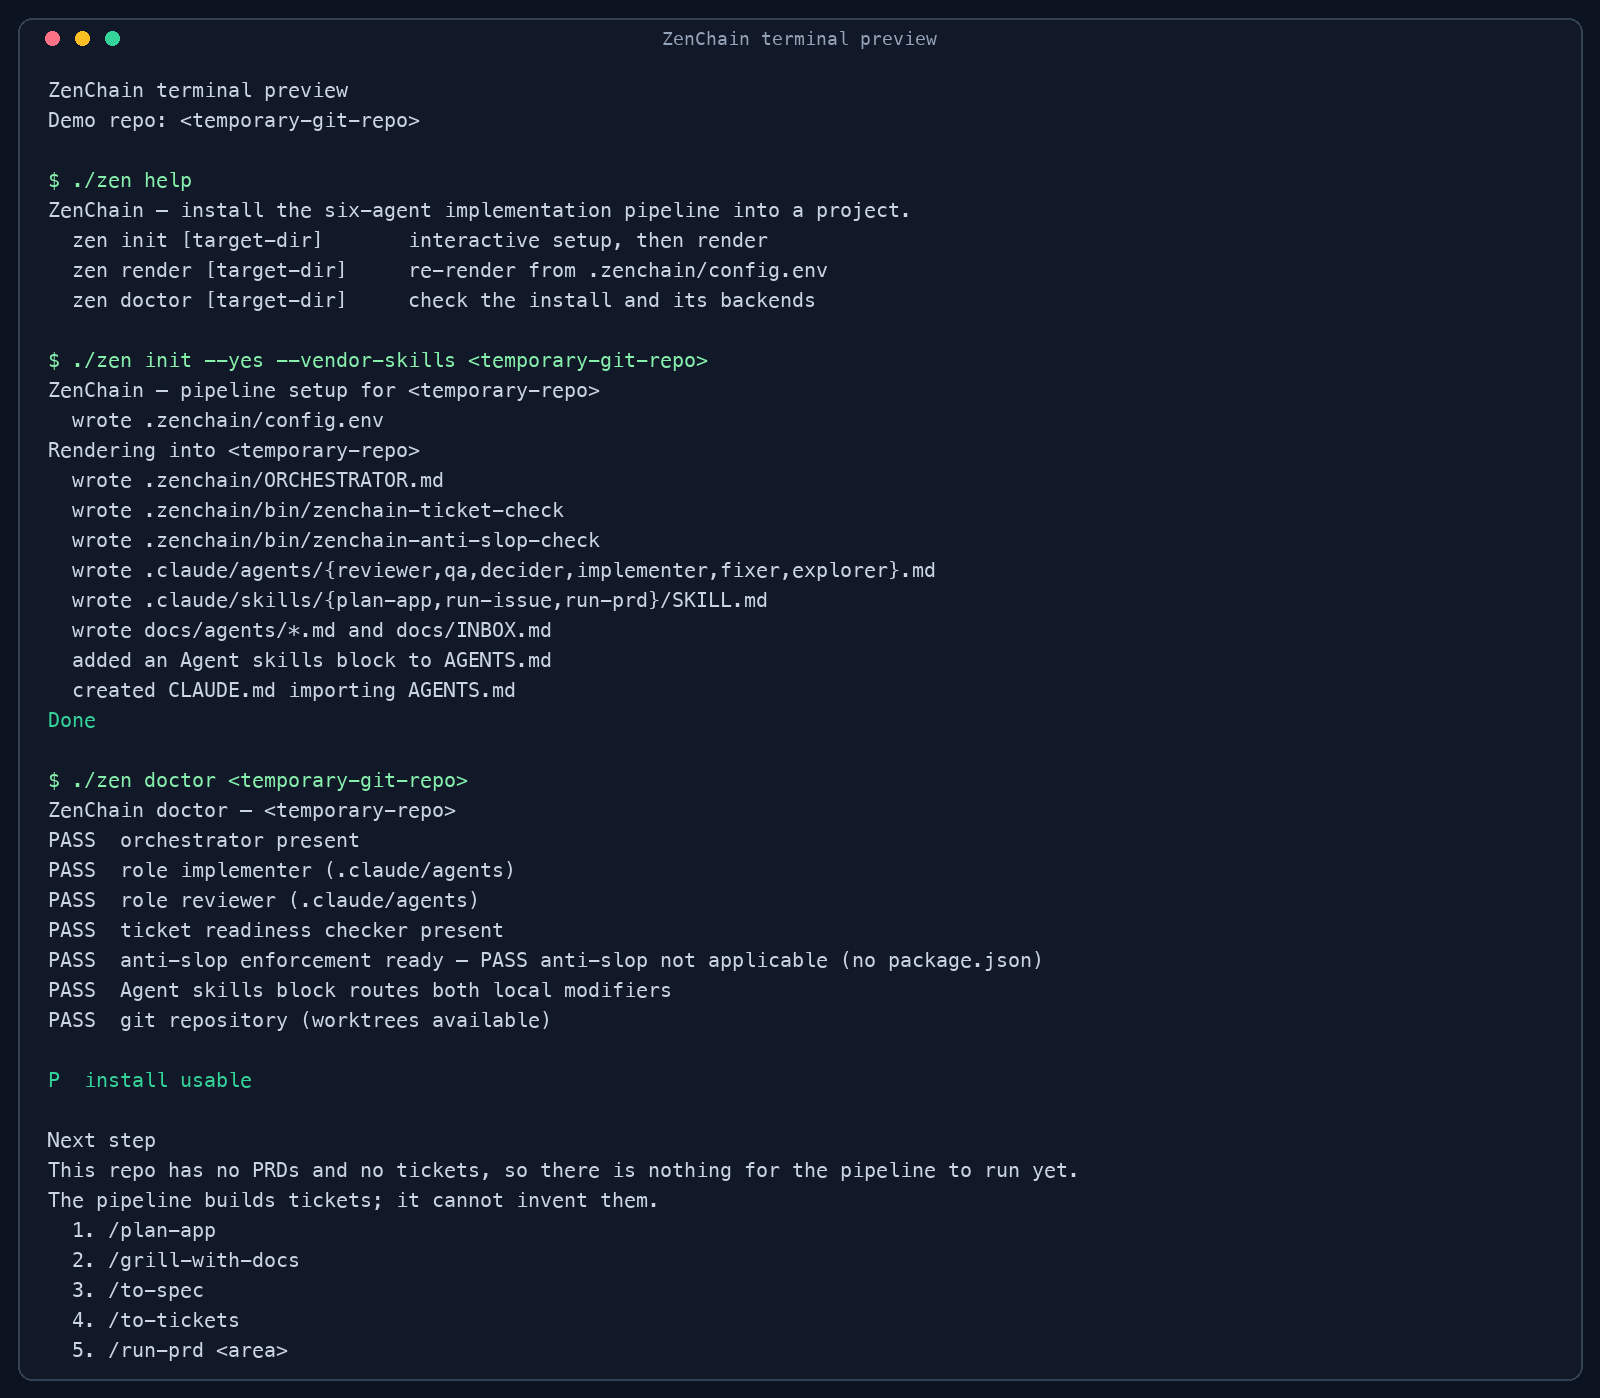
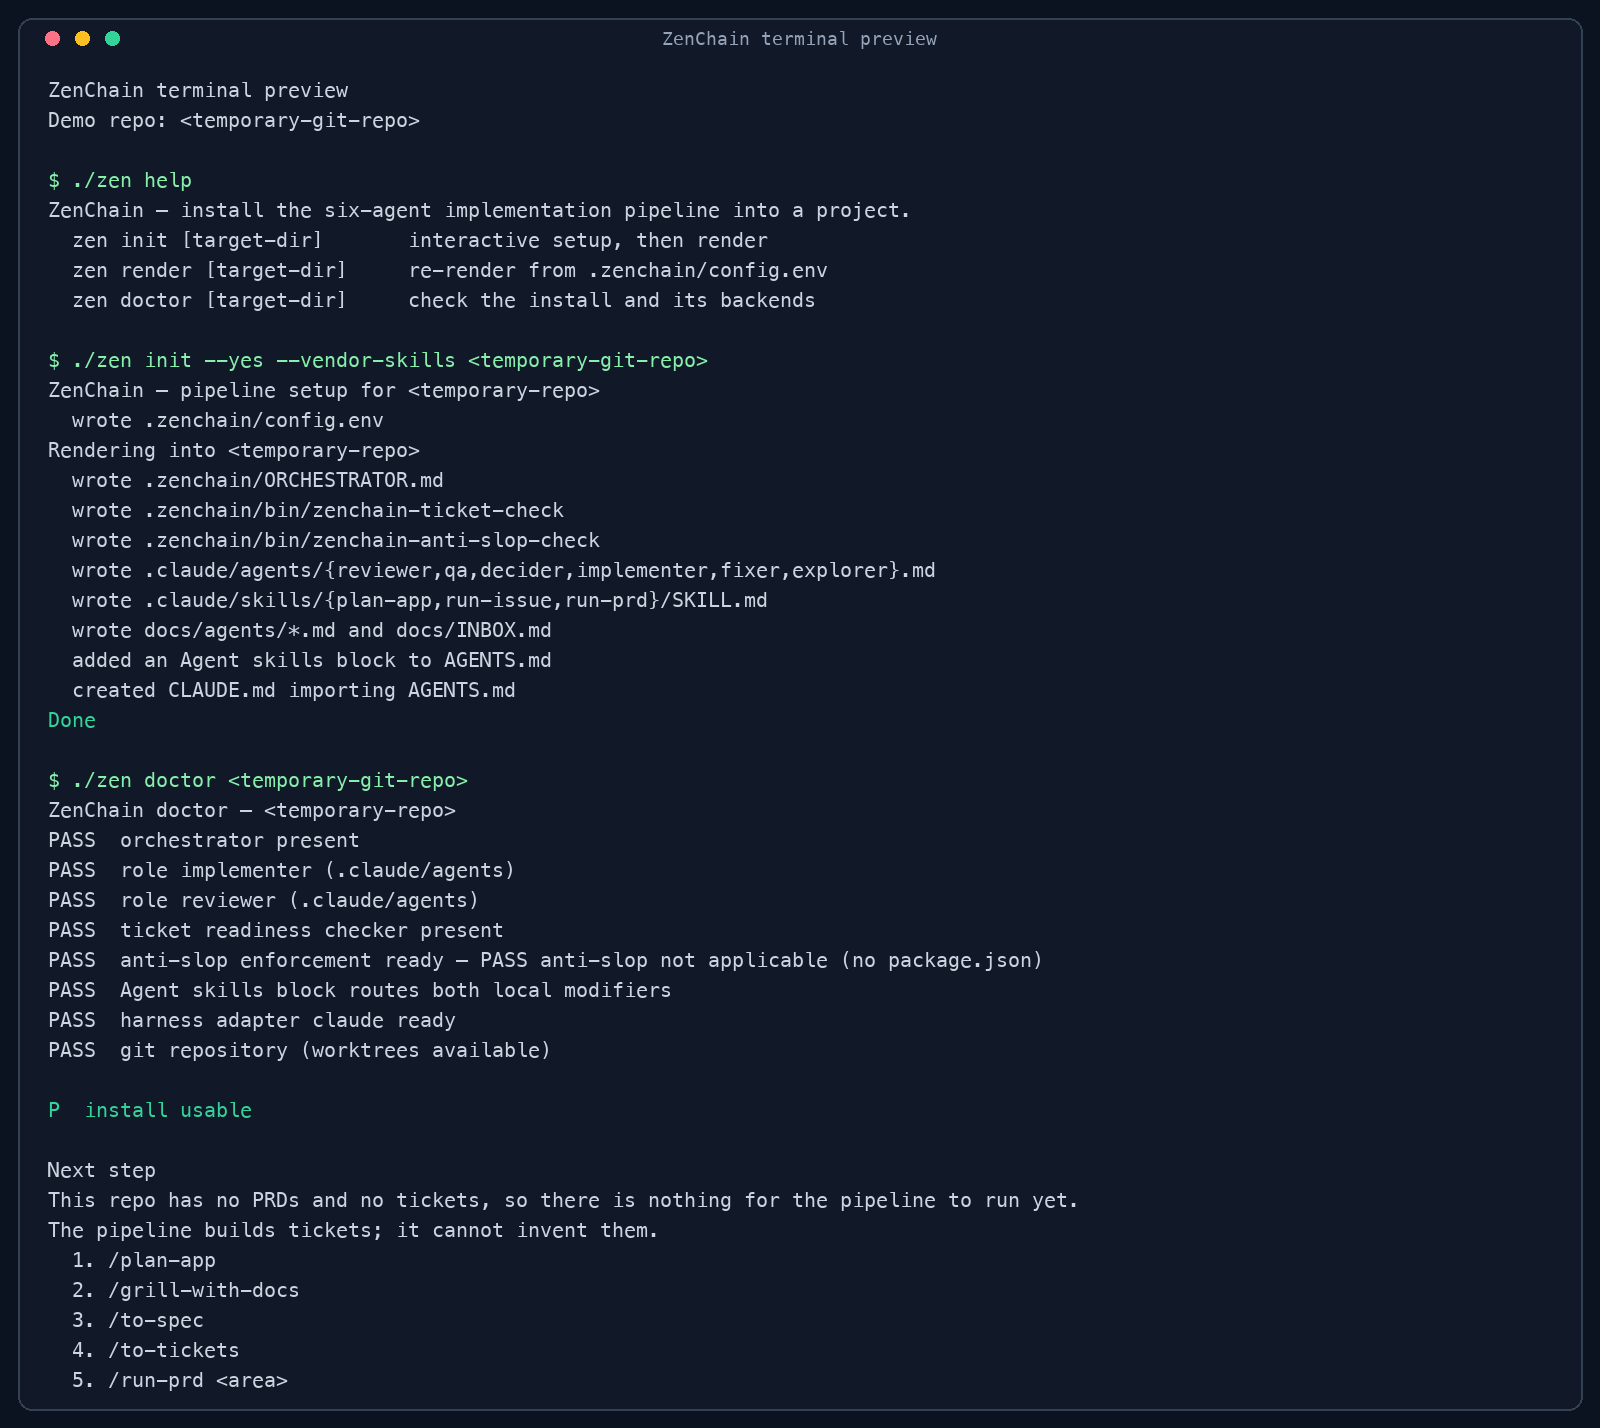
feat: add harness adapter contract
- Dispatch roles through built-in or custom harness adapters
- Configure harness-specific role, prompt, and skill paths
- Add custom adapter coverage and doctor readiness checks

diff --git a/README.md b/README.md
@@ -31,7 +31,8 @@ The installer clones ZenChain into `%LOCALAPPDATA%\ZenChain`, creates `zen.cmd` 
 | `<pipeline-dir>/ORCHESTRATOR.md`    | the pipeline itself; the orchestrator reads this and follows it   |
 | `.claude/agents/*.md`               | role prompts, for roles running as native Claude subagents        |
 | `.zenchain/agents/*.md`                  | role prompts, for roles dispatched through the bridge             |
-| `.zenchain/bin/zenchain-agent`                | the bridge — runs a role headlessly on claude, codex, or pi       |
+| `.zenchain/bin/zenchain-agent`                | harness-neutral bridge; dispatches roles through an adapter         |
+| `.zenchain/bin/zenchain-adapter-*`            | built-in Claude, Codex, and Pi adapter aliases                    |
 | `.zenchain/bin/zenchain-ticket-check`         | tracker-neutral, fail-closed ticket readiness gate                |
 | `.zenchain/bin/zenchain-anti-slop-check`      | verifies enforced TypeScript/JavaScript anti-slop lint setup       |
 | `.claude/skills/run-issue`          | entry point: one issue, then stop                                 |
@@ -87,8 +88,8 @@ The separation is the point. The reviewer physically cannot fix, so "fix" can ne
 
 - **Tracker** — `scratch` (markdown issues in-repo, no remote) or `github` (issues + labels + `gh`)
 - **Design contract** — `figma` (pixel-exact, MCP extraction), `lofi` (mocks are intent; material gaps enter `docs/INBOX.md`), or `none`
-- **Runner** — `claude` (native subagents) or `codex` (headless dispatch through the bridge)
-- **Mechanical backend** — run implementer/fixer/explorer on the same CLI, or offload them to `pi` or `codex` on cheaper models
+- **Runner** — Claude, Codex, or a custom harness adapter for the orchestrator and judgement roles
+- **Mechanical backend** — the same adapter, or a separate Pi/Codex/custom adapter for implementer/fixer/explorer
 - **Models** — one per tier: build, judge, PRD-gate, scan
 - **The gate** — the commands the orchestrator runs itself, in order, as the only ground truth
 - **Anti-slop** — `enforced` by default for repositories with `package.json`, or explicitly `off`
@@ -105,6 +106,20 @@ Non-interactive: `zen init --answers my-answers.env`, or `zen init --yes` for de
 ## Prerequisites
 
 **None.** `zen init` fetches every skill it names, at a pinned commit, so a fresh machine with nothing installed is fully working — including the planning half (`/grill-with-docs`, `/to-spec`, `/to-tickets`, `/triage`, `/wayfinder`) that `plan-app` tells you to run.
+
+### Harness adapters
+
+The pipeline core does not depend on a particular agent CLI. The bridge sends
+each role through an adapter named `zenchain-adapter-<name>` (or an executable
+in `ZENCHAIN_ADAPTER_DIR`). The adapter receives the normalized request through
+`ZENCHAIN_AGENT_ROLE`, `ZENCHAIN_AGENT_CWD`, `ZENCHAIN_AGENT_MODEL`,
+`ZENCHAIN_AGENT_TOOLS`, `ZENCHAIN_AGENT_EFFORT`,
+`ZENCHAIN_AGENT_SYSTEM_FILE`, and `ZENCHAIN_AGENT_PROMPT_FILE`; it writes the
+role report to stdout and supports `--check` for `zen doctor`.
+
+Claude, Codex, and Pi are included as built-in adapters. A custom harness only
+needs to implement that contract and set `ZENCHAIN_RUNNER` / `ZENCHAIN_RUNNER_MECH`
+plus its role, entrypoint, and skill directories in the answers file.
 
 ```
 zen skills             # where each skill lives: a project path, global, or missing

diff --git a/templates/fragments/delegation-bridge-mech.md b/templates/fragments/delegation-bridge-mech.md
@@ -8,13 +8,12 @@ These three mechanical roles are delegated to cheaper models on `{{RUNNER_MECH}}
 .zenchain/bin/zenchain-agent fixer        --cwd {{WORKTREE_DIR}}/<slug> "<reviewer findings>"
 ```
 
-The bridge reads each role's model, tools, and system prompt from `.zenchain/agents/<name>.md`; change a model by editing that file's `model:` line.
+The bridge reads each role's model, tools, and system prompt from `{{MECH_ROLE_DIR}}/<name>.md`; change a model by editing that file's `model:` line.
 
-`reviewer`, `qa` and `decider` — the judgement roles — stay native subagents on this CLI, spawned with the `Agent` tool from `.claude/agents/`. Return to a running one with `SendMessage` rather than spawning a fresh one; that is what lets a reviewer verify its own findings instead of re-deriving them.
+`reviewer`, `qa` and `decider` — the judgement roles — stay in the runner's native role location `{{RUNNER_ROLE_DIR}}/`. Use the harness's native subagent mechanism when available; otherwise dispatch them through the bridge. Return to a running one when the harness supports it; otherwise paste the prior report into the next dispatch.
 
 Every bridge dispatch starts cold — there is no conversation to return to. Give each dispatch the full context in its prompt: paths, not references to "the issue we discussed". When a fixer needs the reviewer's findings, paste them.
 
 **The bridge's output is a claim, not ground truth.** You still run the gate yourself, own every merge, and count the rounds.
 
 **Watch for a dead backend.** An external provider that has run out of credit or lost its auth can exit zero with an empty report, which reads as a clean run that found nothing to do. The bridge fails with exit 3 on empty output specifically to stop that. If you see it, fix the backend — do not respawn into the same wall, and do not treat the silence as a result.
-

diff --git a/templates/skills/delegate/SKILL.md b/templates/skills/delegate/SKILL.md
@@ -5,7 +5,7 @@ description: Dispatch a pipeline role (implementer, fixer, explorer, reviewer, q
 
 # Delegate a role through the bridge
 
-The orchestrator (`{{PIPELINE_DIR}}/ORCHESTRATOR.md`) owns sequencing, the gate, the round cap, and every merge. Roles that run outside this CLI go through `.zenchain/bin/zenchain-agent`.
+The orchestrator (`{{PIPELINE_DIR}}/ORCHESTRATOR.md`) owns sequencing, the gate, the round cap, and every merge. Roles that run outside this CLI go through `.zenchain/bin/zenchain-agent`, which dispatches through the configured harness adapter.
 
 ## Invoke
 
@@ -26,7 +26,9 @@ Call it with the Bash tool.
 
 ## What the bridge does
 
-Reads `.zenchain/agents/<role>.md`, pulls `model` and `tools` from its frontmatter and the body as the system prompt, and runs the configured backend. The model is **never hardcoded in the bridge** — to change which model a role uses, edit the `model:` line in `.zenchain/agents/<role>.md`. Or set `ZENCHAIN_AGENT_MODEL` for a single run, to A/B a model without editing anything.
+Reads `{{MECH_ROLE_DIR}}/<role>.md`, pulls `model`, `tools`, and `effort` from its frontmatter, and sends a normalized request to the configured adapter. The model is **never hardcoded in the bridge** — edit the role's `model:` line, or set `ZENCHAIN_AGENT_MODEL` for one run.
+
+The adapter receives `ZENCHAIN_AGENT_ROLE`, `ZENCHAIN_AGENT_CWD`, `ZENCHAIN_AGENT_MODEL`, `ZENCHAIN_AGENT_TOOLS`, `ZENCHAIN_AGENT_EFFORT`, `ZENCHAIN_AGENT_SYSTEM_FILE`, and `ZENCHAIN_AGENT_PROMPT_FILE`. It writes the role report to stdout and supports `--check` for `zen doctor`.
 
 The backend's stdout is the agent's report. **Treat it as a claim, not ground truth.**
 

diff --git a/templates/fragments/delegation-bridge-all.md b/templates/fragments/delegation-bridge-all.md
@@ -11,7 +11,7 @@ This CLI has no native subagent mechanism, so every role runs as a fresh headles
 .zenchain/bin/zenchain-agent decider      "<the question, the issue path, the context>"
 ```
 
-The bridge reads each role's model, tools, and system prompt from `.zenchain/agents/<name>.md`; change a model by editing that file's `model:` line.
+The bridge reads each role's model, tools, and system prompt from `{{RUNNER_ROLE_DIR}}/<name>.md`; change a model by editing that file's `model:` line.
 
 Three consequences of headless dispatch you have to work around, because they are not optional:
 
@@ -22,4 +22,3 @@ Three consequences of headless dispatch you have to work around, because they ar
 **The bridge's output is a claim, not ground truth.** You still run the gate yourself, own every merge, and count the rounds.
 
 **An empty report is a dead dispatch.** The bridge exits 3 when a backend produces nothing, which happens on lost auth, exhausted credit, or a transport error. Fix the backend; do not respawn into the same wall, and never read silence as "nothing to do".
-
